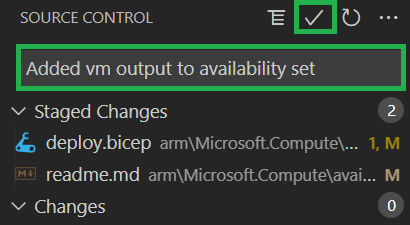
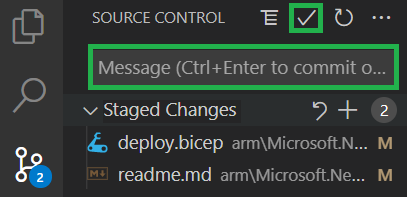
Update to latest

diff --git a/docs/wiki/Lab 7 - Contribution.md b/docs/wiki/Lab 7 - Contribution.md
@@ -162,15 +162,15 @@ Now that the contribution is implemented and the tests are green, you can contin
 
 1. The first thing you have to do is to upload your changes. You can do this either via the terminal or by using the Git integration of VSCode. To keep it simple, this lab assumes you want to use the VSCode's git integration. If not already there, navigate to the source control menu to the left.
 
-    <img src="./media/Lab7/sourceControl.png" alt="Open source control" height="140">
+    <img src="./media/Lab7/sourceControl.png" alt="Open source control" height="120">
 
 1. Here you first need to add the changed files to the commit. To do so, select the `+` icon next to `Changes` (appears when hovering)
 
-    <img src="./media/Lab7/gitadd.png" alt="Git add" height="80">
+    <img src="./media/Lab7/gitadd.png" alt="Git add" height="120">
 
-1. Next, you should give the commit a meaningful message such as 'Added VM output to availability set' and can then click the checkmark symbol on the top to create the commit
+1. Next, you should give the commit a meaningful message such as 'Added output to route table' and can then click the checkmark symbol on the top to create the commit
 
-    <img src="./media/Lab7/gitCommit.png" alt="Git commit" height="140">
+    <img src="./media/Lab7/gitCommit.png" alt="Git commit" height="120">
 
 1. Finally, you can push the changes to the repository by selecting the blue `Publish Branch` button
 
@@ -180,7 +180,7 @@ Now that the contribution is implemented and the tests are green, you can contin
 
     <img src="./media/Lab7/openActions.png" alt="Open actions" height="100">
 
-1. From the list of actions to the left, select `Compute: AvailabilitySets` followed by the `Run workflow` dropdown to the right
+1. From the list of actions to the left, select `Network: RouteTables` followed by the `Run workflow` dropdown to the right
 
     <img src="./media/Lab7/actionSelect.png" alt="Select actions" height="350">
 
